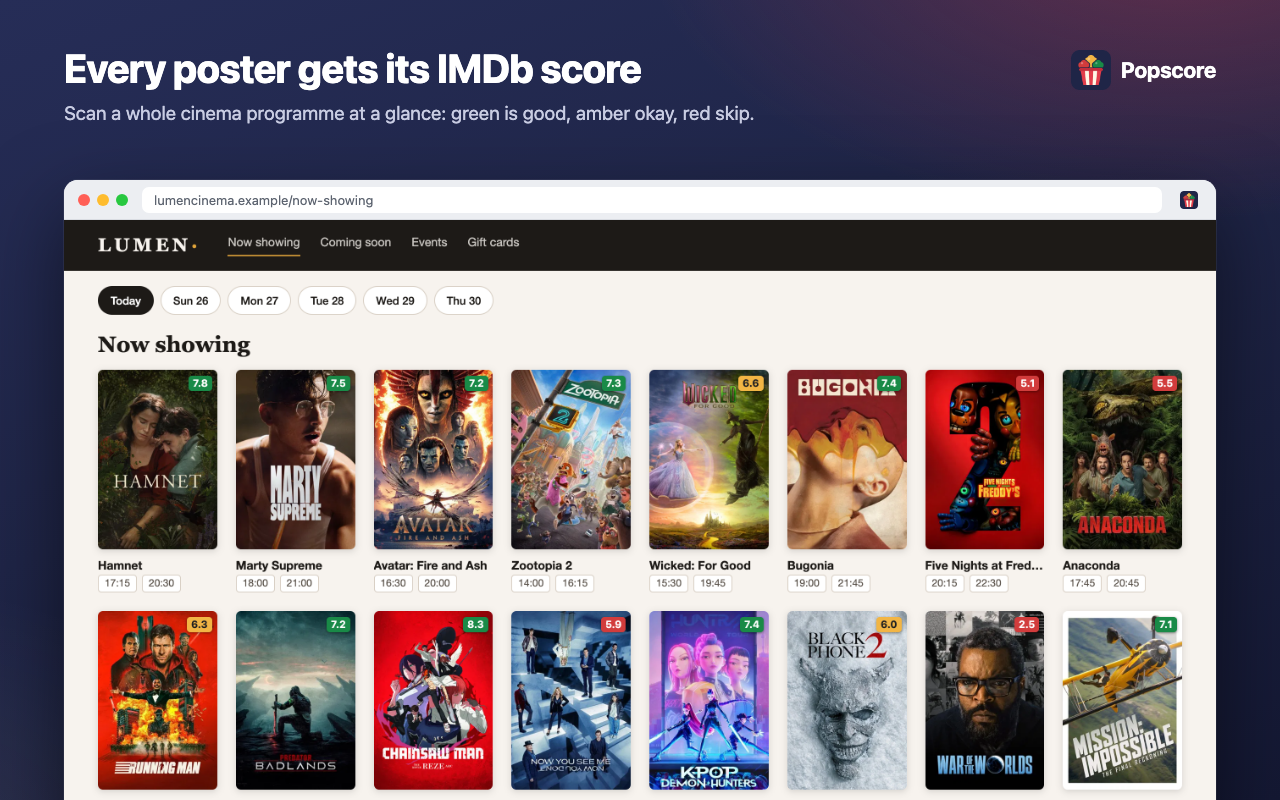
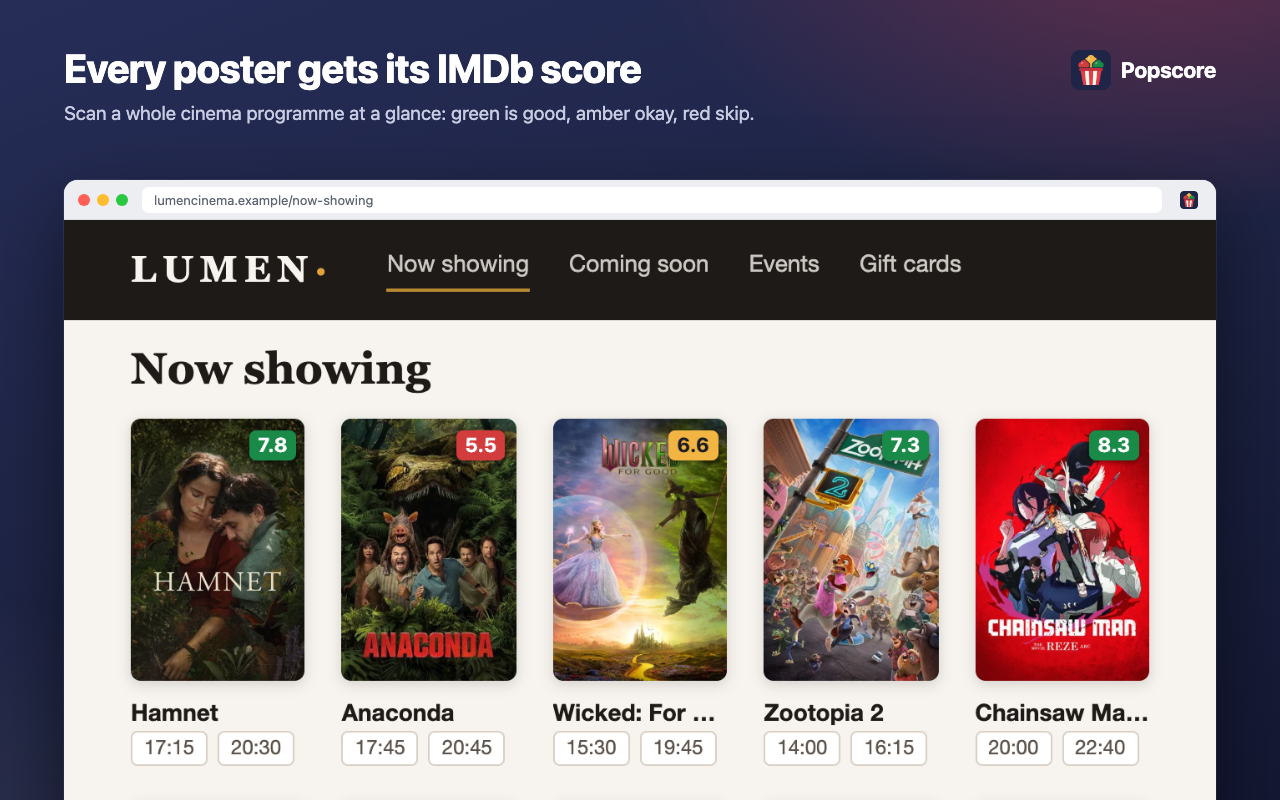
Zoom the store screenshots in so the tags read when shrunk
The pages were captured at desktop width and shrunk into the frame, which
left the score tags about 10 px tall. They're now captured at 690-860 px
and scaled up, like a zoomed-in browser: one row of five posters on the
cinema page, in an order that shows all three verdicts, without the day
picker. The settings shot keeps only the verdict colors and link choices.

diff --git a/scripts/store/scenes/cinema.html b/scripts/store/scenes/cinema.html
@@ -122,23 +122,24 @@
     <h1>Now showing</h1>
     <ul class="grid" id="grid"></ul>
     <script>
+      // The first row mixes all three verdicts: with ?cols=5 it's all the screenshots show.
       const FILMS = [
         ['Hamnet', '/vbeyOZm2bvBXcbgPD3v6o94epPX.jpg', '17:15', '20:30'],
-        ['Marty Supreme', '/lYWEXbQgRTR4ZQleSXAgRbxAjvq.jpg', '18:00', '21:00'],
-        ['Avatar: Fire and Ash', '/bRBeSHfGHwkEpImlhxPmOcUsaeg.jpg', '16:30', '20:00'],
-        ['Zootopia 2', '/oJ7g2CifqpStmoYQyaLQgEU32qO.jpg', '14:00', '16:15'],
-        ['Wicked: For Good', '/si9tolnefLSUKaqQEGz1bWArOaL.jpg', '15:30', '19:45'],
-        ['Bugonia', '/rSdOua3wKMEaFWDcKAYWRjXQWOt.jpg', '19:00', '21:45'],
-        ["Five Nights at Freddy's 2", '/udAxQEORq2I5wxI97N2TEqdhzBE.jpg', '20:15', '22:30'],
         ['Anaconda', '/hBxN6dwrANN1ic3a4G9x6JZcR3C.jpg', '17:45', '20:45'],
-        ['The Running Man', '/dKL78O9zxczVgjtNcQ9UkbYLzqX.jpg', '19:30', '22:15'],
-        ['Predator: Badlands', '/pHpq9yNUIo6aDoCXEBzjSolywgz.jpg', '18:30', '21:15'],
+        ['Wicked: For Good', '/si9tolnefLSUKaqQEGz1bWArOaL.jpg', '15:30', '19:45'],
+        ['Zootopia 2', '/oJ7g2CifqpStmoYQyaLQgEU32qO.jpg', '14:00', '16:15'],
         [
           'Chainsaw Man – The Movie: Reze Arc',
           '/pHyxb2RV5wLlboAwm9ZJ9qTVEDw.jpg',
           '20:00',
           '22:40',
         ],
+        ['Marty Supreme', '/lYWEXbQgRTR4ZQleSXAgRbxAjvq.jpg', '18:00', '21:00'],
+        ['Avatar: Fire and Ash', '/bRBeSHfGHwkEpImlhxPmOcUsaeg.jpg', '16:30', '20:00'],
+        ['Bugonia', '/rSdOua3wKMEaFWDcKAYWRjXQWOt.jpg', '19:00', '21:45'],
+        ["Five Nights at Freddy's 2", '/udAxQEORq2I5wxI97N2TEqdhzBE.jpg', '20:15', '22:30'],
+        ['The Running Man', '/dKL78O9zxczVgjtNcQ9UkbYLzqX.jpg', '19:30', '22:15'],
+        ['Predator: Badlands', '/pHpq9yNUIo6aDoCXEBzjSolywgz.jpg', '18:30', '21:15'],
         ["Now You See Me: Now You Don't", '/oD3Eey4e4Z259XLm3eD3WGcoJAh.jpg', '17:00', '19:50'],
         ['KPop Demon Hunters', '/zT7Lhw3BhJbMkRqm9Zlx2YGMsY0.jpg', '13:30', '15:45'],
         ['Black Phone 2', '/vBOpqxW0SDhACwEO2LZT29DuNG2.jpg', '20:30', '22:50'],
@@ -150,9 +151,11 @@
           '20:15',
         ],
       ];
-      // ?cols=5 for the close-up.
-      const cols = new URLSearchParams(location.search).get('cols');
+      // ?cols=5 for the zoomed-in screenshots, ?compact without the day picker.
+      const params = new URLSearchParams(location.search);
+      const cols = params.get('cols');
       if (cols) document.documentElement.style.setProperty('--cols', cols);
+      if (params.has('compact')) document.querySelector('.days').remove();
       document.getElementById('grid').innerHTML = FILMS.map(
         ([title, poster, a, b], i) => `
         <li class="film">
